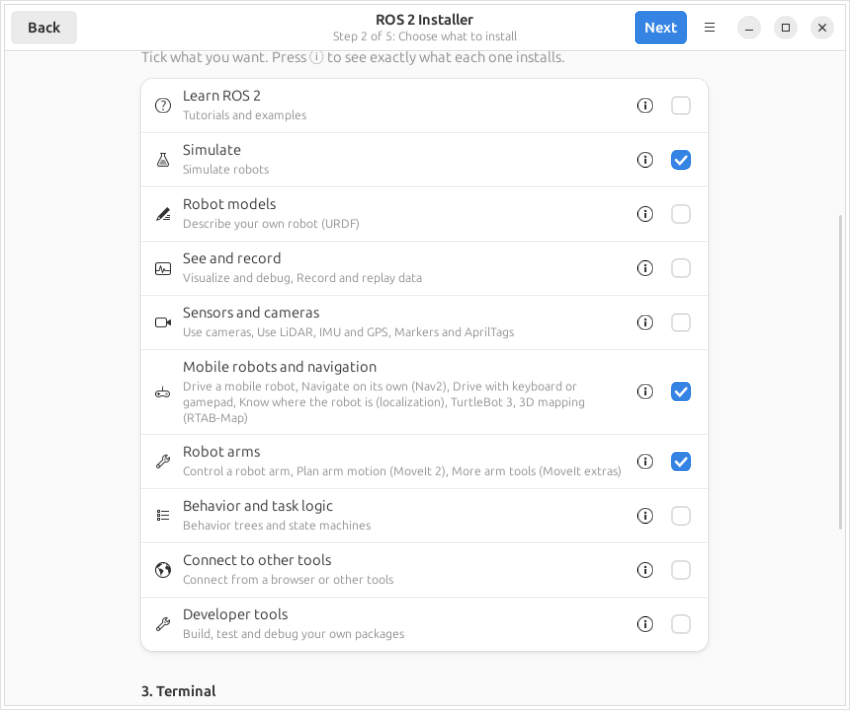
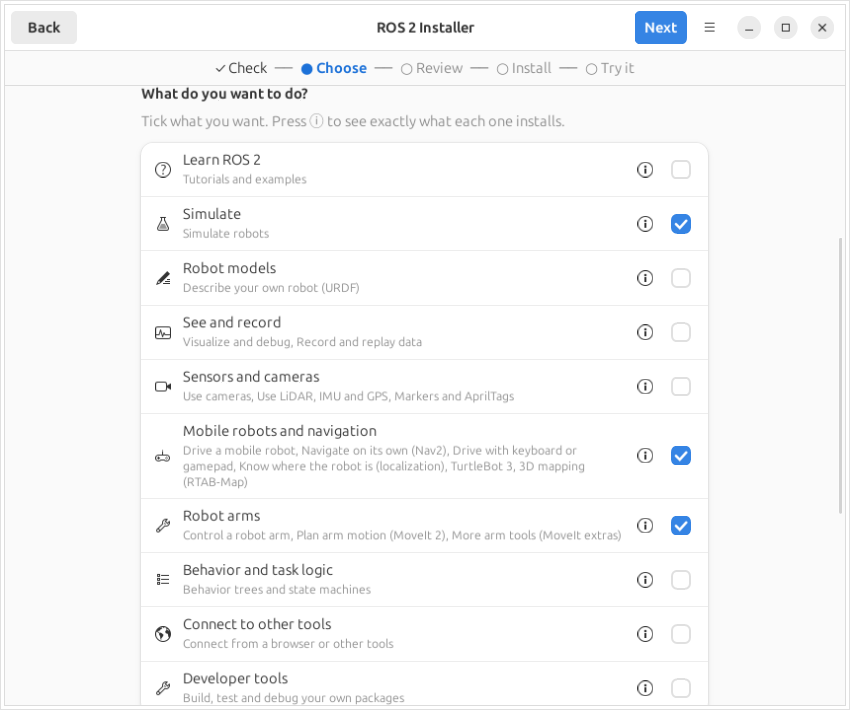
0.1.8: step bar, Desktop-Full recommended, fresh screenshots
- Step bar under the header (Check, Choose, Review, Install, Try it) replaces
  the 'Step N of 5' text; the choose page's groups lose their numbers.
- ROS 2 itself: Desktop-Full first and recommended (it includes Gazebo),
  then Desktop, then ROS-Base.
- README screenshots retaken for 0.1.8.

diff --git a/ros2_installer.py b/ros2_installer.py
@@ -24,7 +24,7 @@ from gi.repository import Adw, Gdk, Gio, GLib, Gtk, Pango  # noqa: E402
 HERE = Path(__file__).resolve().parent
 HELPER = HERE / "helper.sh"
 CATALOG = yaml.safe_load((HERE / "catalog.yaml").read_text())
-__version__ = "0.1.7"  # bump with each GitHub release; the tag is v<version>
+__version__ = "0.1.8"  # bump with each GitHub release; the tag is v<version>
 REPO_URL = "https://github.com/runtimerobotics/ros2_gui_installer"
 APP_ID = "com.runtimerobotics.Ros2Installer"  # also the icon and .desktop file name
 MIN_FREE_GB = 10  # Desktop-Full + Gazebo is ~6-8 GB once unpacked
@@ -576,7 +576,7 @@ class Installer(Adw.ApplicationWindow):
         if os.path.isdir(f"/opt/ros/{d}"):  # on a fresh machine "up to date" would read as "already installed"
             page.add(self.build_updates_group())
         base = Adw.PreferencesGroup(title="ROS 2 itself",
-                                    description="New to ROS 2? Keep Desktop, tick Learn ROS 2 below, then press Next. "
+                                    description="New to ROS 2? Keep Desktop-Full, tick Learn ROS 2 below, then press Next. "
                                                 "You can add more later.")
         page.add(base)
         self.variant_checks = {}
@@ -1061,7 +1061,7 @@ class Installer(Adw.ApplicationWindow):
         # Every demo is listed; ones whose packages aren't installed are shown but can't be run.
         group = Adw.PreferencesGroup(title="Try a demo",
                                      description="Each one opens a terminal. Press Ctrl+C there to stop it.")
-        demos = [(m, expand(m.get("packages", []), d), "Comes with ROS 2 Desktop.") for m in CATALOG["base"]["demos"]]
+        demos = [(m, expand(m.get("packages", []), d), "Comes with ROS 2 Desktop and Desktop-Full.") for m in CATALOG["base"]["demos"]]
         cat_title = {c["id"]: c["title"] for c in CATALOG["categories"]}
         demos += [(g["demo"], expand(g["packages"], d),
                    f"Press Install more below and tick “{cat_title[g['category']]}”.")
